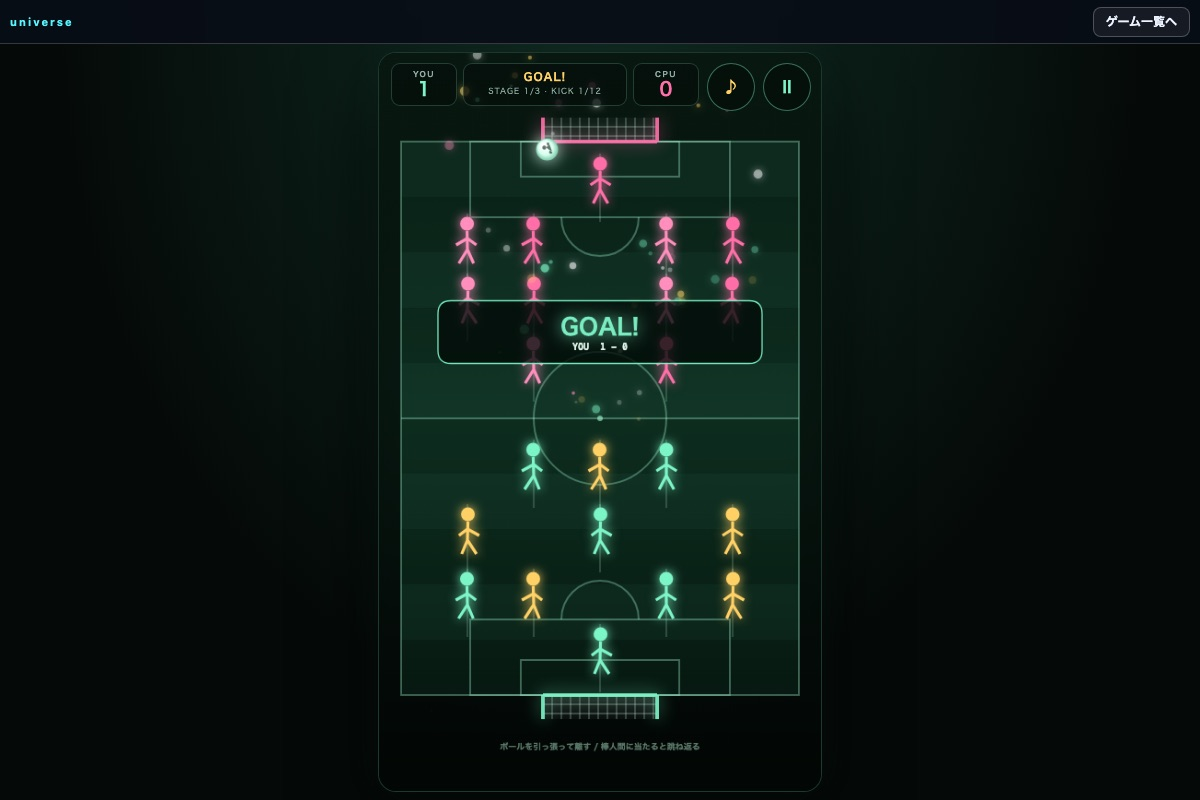
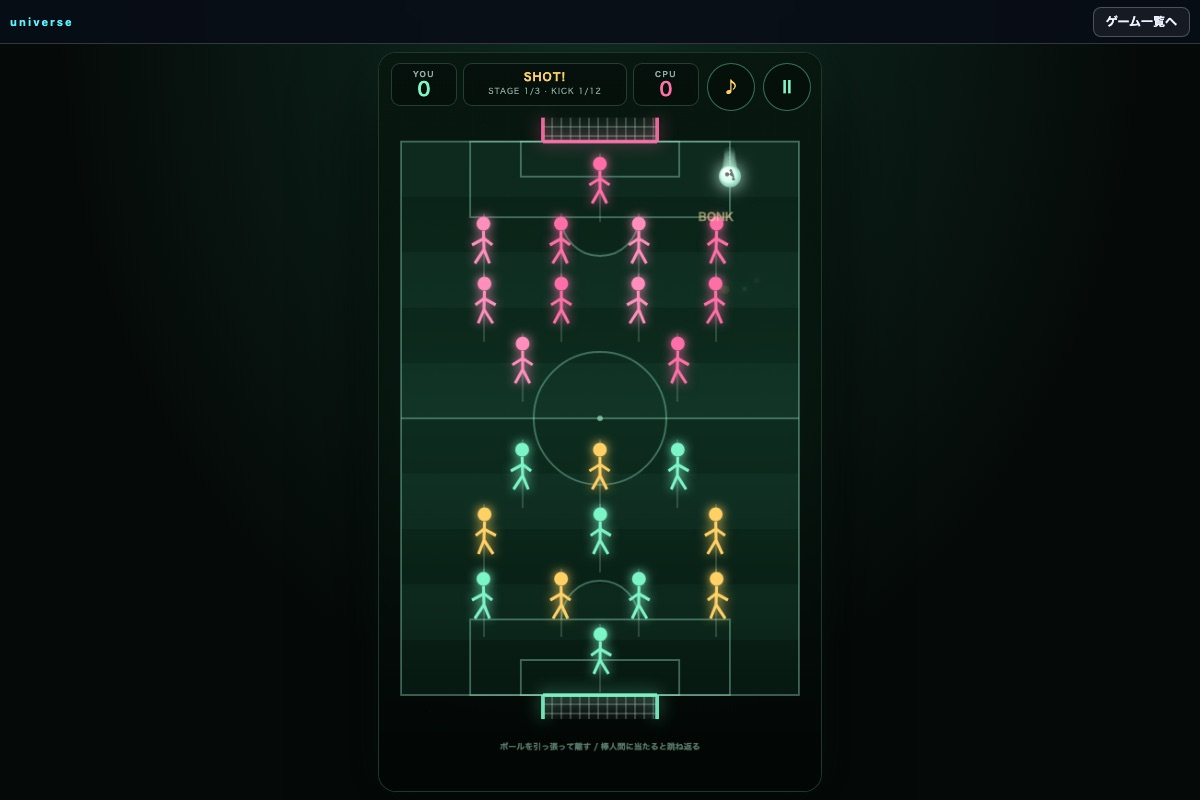
stick-soccer: フォーメーションを9スロットに細分化し左右隣接を禁止 (#212)
各ラインを5→9スロットに増やし、同一ラインで隣り合うスロットへの配置をUI/エンジンの両方で拒否。CPUの3ステージも左右に連立しない配置へ更新し、壁でボールが通らなくなるのを防ぐ。テスト・README・apps.json・サムネイルも更新。

diff --git a/projects/_labs/stick-soccer/engine.js b/projects/_labs/stick-soccer/engine.js
@@ -34,17 +34,17 @@
     { id: 'mf', label: 'MF', y: 275 },
     { id: 'fw', label: 'FW', y: 340 }
   ];
-  var FORMATION_SLOTS = [96, 168, 240, 312, 384];
+  var FORMATION_SLOTS = [72, 114, 156, 198, 240, 282, 324, 366, 408];
   var PLAYER_R = 16;
   var DEFAULT_FORMATION = [
-    { line: 0, slot: 1 }, { line: 0, slot: 2 }, { line: 0, slot: 3 },
-    { line: 1, slot: 0 }, { line: 1, slot: 2 }, { line: 1, slot: 4 },
-    { line: 2, slot: 0 }, { line: 2, slot: 1 }, { line: 2, slot: 3 }, { line: 2, slot: 4 },
-    { line: 3, slot: 2 }
+    { line: 0, slot: 2 }, { line: 0, slot: 4 }, { line: 0, slot: 6 },
+    { line: 1, slot: 1 }, { line: 1, slot: 4 }, { line: 1, slot: 7 },
+    { line: 2, slot: 1 }, { line: 2, slot: 3 }, { line: 2, slot: 5 }, { line: 2, slot: 7 },
+    { line: 3, slot: 4 }
   ];
 
   function cpuFormation(gk, df, mf, fw) {
-    var out = [{ line: 0, slot: 2 }];
+    var out = [{ line: 0, slot: gk }];
     var i;
     for (i = 0; i < df.length; i++) out.push({ line: 1, slot: df[i] });
     for (i = 0; i < mf.length; i++) out.push({ line: 2, slot: mf[i] });
@@ -53,10 +53,33 @@
   }
 
   var STAGES = [
-    { id: 'stage-1', name: '4-4-2', cpuFormation: cpuFormation(2, [0, 1, 3, 4], [0, 1, 3, 4], [1, 3]) },
-    { id: 'stage-2', name: '3-5-2', cpuFormation: cpuFormation(2, [0, 2, 4], [0, 1, 2, 3, 4], [1, 3]) },
-    { id: 'stage-3', name: '4-3-3', cpuFormation: cpuFormation(2, [0, 1, 3, 4], [1, 2, 3], [0, 2, 4]) }
+    { id: 'stage-1', name: '4-4-2', cpuFormation: cpuFormation(4, [1, 3, 5, 7], [1, 3, 5, 7], [2, 6]) },
+    { id: 'stage-2', name: '3-5-2', cpuFormation: cpuFormation(4, [1, 4, 7], [0, 2, 4, 6, 8], [2, 6]) },
+    { id: 'stage-3', name: '4-3-3', cpuFormation: cpuFormation(4, [1, 3, 5, 7], [1, 4, 7], [0, 4, 8]) }
   ];
+
+  function isValidFormation(formation) {
+    if (!formation || !formation.length) return true;
+    var seen = {};
+    var byLine = {};
+    for (var i = 0; i < formation.length; i++) {
+      var p = formation[i];
+      if (!p || !PLAYER_LINES[p.line] || FORMATION_SLOTS[p.slot] == null) return false;
+      var key = p.line + ':' + p.slot;
+      if (seen[key]) return false;
+      seen[key] = true;
+      if (!byLine[p.line]) byLine[p.line] = [];
+      byLine[p.line].push(p.slot);
+    }
+    for (var line in byLine) {
+      if (!Object.prototype.hasOwnProperty.call(byLine, line)) continue;
+      var slots = byLine[line].slice().sort(function (a, b) { return a - b; });
+      for (var j = 1; j < slots.length; j++) {
+        if (slots[j] - slots[j - 1] === 1) return false;
+      }
+    }
+    return true;
+  }
 
   function obstaclesFor(formation, team) {
     var f = formation && formation.length ? formation : DEFAULT_FORMATION;
@@ -95,6 +118,7 @@
     options = options || {};
     var stage = clamp(Number(options.stage) || 0, 0, STAGES.length - 1);
     var playerFormation = options.formation || DEFAULT_FORMATION;
+    if (!isValidFormation(playerFormation)) playerFormation = DEFAULT_FORMATION;
     var cpuFormation = STAGES[stage].cpuFormation;
     var s = {
       phase: 'aim',
@@ -424,6 +448,7 @@
     PLAYER_R: PLAYER_R,
     DEFAULT_FORMATION: DEFAULT_FORMATION,
     obstaclesFor: obstaclesFor,
+    isValidFormation: isValidFormation,
     TURNS: TURNS,
     WIN_SCORE: WIN_SCORE,
     createGame: createGame,

diff --git a/projects/_labs/stick-soccer/game.js b/projects/_labs/stick-soccer/game.js
@@ -524,6 +524,25 @@
     return best;
   }
 
+  function candidateFormation(index, line, slot) {
+    var next = copyFormation(formation);
+    var old = next[index];
+    var occupant = -1;
+    for (var i = 0; i < next.length; i++) {
+      if (i !== index && next[i].line === line && next[i].slot === slot) {
+        occupant = i;
+        break;
+      }
+    }
+    next[index] = { line: line, slot: slot };
+    if (occupant >= 0) next[occupant] = { line: old.line, slot: old.slot };
+    return next;
+  }
+
+  function canDropFormation(index, line, slot) {
+    return E.isValidFormation(candidateFormation(index, line, slot));
+  }
+
   function drawFormation(time) {
     for (var line = 0; line < E.FORMATION_LINES.length; line++) {
       var y = E.FORMATION_LINES[line].y;
@@ -580,12 +599,23 @@
     }
     var target = formationDrag ? nearestFormationSlot(formationDrag.x, formationDrag.y) : null;
     if (target && target.d < 58) {
+      var valid = canDropFormation(formationDrag.index, target.line, target.slot);
       ctx.save();
-      ctx.strokeStyle = 'rgba(255, 209, 102, 0.9)';
+      ctx.strokeStyle = valid ? 'rgba(255, 209, 102, 0.9)' : 'rgba(255, 111, 159, 0.95)';
       ctx.lineWidth = 2;
       ctx.beginPath();
       ctx.arc(target.x, target.y, E.PLAYER_R + 9, 0, Math.PI * 2);
       ctx.stroke();
+      if (!valid) {
+        ctx.strokeStyle = 'rgba(255, 111, 159, 0.95)';
+        ctx.lineWidth = 3;
+        ctx.beginPath();
+        ctx.moveTo(target.x - 7, target.y - 7);
+        ctx.lineTo(target.x + 7, target.y + 7);
+        ctx.moveTo(target.x + 7, target.y - 7);
+        ctx.lineTo(target.x - 7, target.y + 7);
+        ctx.stroke();
+      }
       ctx.restore();
     }
     for (var i = 0; i < formation.length; i++) {
@@ -619,7 +649,7 @@
     ctx.fillText('FORMATION  STAGE ' + (stageIndex + 1) + '/' + E.STAGES.length, C.VIEW_W / 2, 62);
     ctx.fillStyle = 'rgba(145, 190, 168, 0.78)';
     ctx.font = '700 9px "Hiragino Kaku Gothic ProN", "Yu Gothic", system-ui, sans-serif';
-    ctx.fillText('自分11人を下側4ラインへ。上側はCPUの形', C.VIEW_W / 2, 82);
+    ctx.fillText('自分11人を下側4ラインへ。左右の隣には置けません', C.VIEW_W / 2, 82);
     ctx.restore();
   }
 
@@ -807,16 +837,9 @@
       try { if (canvas.releasePointerCapture) canvas.releasePointerCapture(fid); } catch (err) { }
       var target = nearestFormationSlot(drag.x, drag.y);
       if (!target || target.d > 58) return;
-      var old = formation[drag.index];
-      var occupant = -1;
-      for (var i = 0; i < formation.length; i++) {
-        if (i !== drag.index && formation[i].line === target.line && formation[i].slot === target.slot) {
-          occupant = i;
-          break;
-        }
-      }
-      formation[drag.index] = { line: target.line, slot: target.slot };
-      if (occupant >= 0) formation[occupant] = { line: old.line, slot: old.slot };
+      var nextFormation = candidateFormation(drag.index, target.line, target.slot);
+      if (!E.isValidFormation(nextFormation)) return;
+      formation = nextFormation;
       return;
     }
     if (!pointer) return;

diff --git a/projects/_labs/stick-soccer/test-engine.js b/projects/_labs/stick-soccer/test-engine.js
@@ -13,8 +13,22 @@ assert(E.FIELD.w > 300 && E.FIELD.h > 500, 'field size is wrong');
 assert(E.OBSTACLES.length === 22, '22 stick obstacles expected: ' + E.OBSTACLES.length);
 assert(E.DEFAULT_FORMATION.length === 11, 'default formation should have 11 players');
 assert(E.FORMATION_LINES.length === 4 && E.CPU_LINES.length === 4, 'both teams should have 4 lines');
+assert(E.FORMATION_SLOTS.length === 9, 'nine formation slots per line expected');
+assert(E.isValidFormation(E.DEFAULT_FORMATION), 'default formation should be legal');
 assert(E.STAGES.length === 3, 'three stages expected');
 assert(E.STAGES[0].cpuFormation.length === 11 && E.STAGES[1].cpuFormation.length === 11 && E.STAGES[2].cpuFormation.length === 11, 'each CPU formation should have 11 players');
+for (var stageFormation = 0; stageFormation < E.STAGES.length; stageFormation++) {
+  assert(E.isValidFormation(E.STAGES[stageFormation].cpuFormation), 'CPU stage formation should not have adjacent players');
+}
+assert(E.isValidFormation([{ line: 0, slot: 0 }, { line: 0, slot: 2 }]), 'two-slot spacing should be legal');
+assert(!E.isValidFormation([{ line: 0, slot: 0 }, { line: 0, slot: 1 }]), 'adjacent players in one line should be illegal');
+assert(E.isValidFormation([{ line: 0, slot: 0 }, { line: 1, slot: 1 }]), 'adjacent slots in different lines should be legal');
+assert(!E.isValidFormation([{ line: 0, slot: 0 }, { line: 0, slot: 0 }]), 'duplicate formation positions should be illegal');
+assert(!E.isValidFormation([{ line: 9, slot: 0 }]), 'invalid line should be illegal');
+
+var invalid = E.createGame({ formation: [{ line: 0, slot: 0 }, { line: 0, slot: 1 }] });
+assert(invalid.obstacles.length === 22, 'invalid formation should fall back to the default');
+assert(invalid.obstacles.filter(function (p) { return p.team === 'player'; }).length === 11, 'fallback should restore 11 players');
 assert(E.TURNS === 12 && E.WIN_SCORE === 3, 'turn or win limit is wrong');
 
 var custom = E.createGame({ formation: [{ line: 0, slot: 2 }, { line: 2, slot: 0 }] });

diff --git a/projects/_labs/stick-soccer/index.html b/projects/_labs/stick-soccer/index.html
@@ -37,6 +37,7 @@
             <li>ピッチ上の棒人間に当たるとボールが跳ね返る</li>
             <li>自分とCPUの11人ずつ、計22人がピッチに並ぶ。CPUと交互にキック</li>
             <li>試合前に自分の11人を下側4本のラインへ配置（フォーメーション）</li>
+            <li>同じラインの左右隣には置けない。9スロットから選ぶ</li>
             <li>CPUの形は3ステージで変化。勝つと次のステージへ</li>
             <li>12キックで決着がつかなければ得点勝負</li>
             <li>先に3点取った方が勝ち。ゴール後は失点側のキックで再開</li>
@@ -86,8 +87,8 @@
     </div>
   </main>
   <script src="audio.js?v=1"></script>
-  <script src="engine.js?v=4"></script>
-  <script src="game.js?v=5"></script>
+  <script src="engine.js?v=5"></script>
+  <script src="game.js?v=6"></script>
   <script src="../../_shared/game-back.js"></script>
 </body>
 </html>

diff --git a/projects/_labs/stick-soccer/README.md b/projects/_labs/stick-soccer/README.md
@@ -13,6 +13,7 @@ python3 -m http.server 8000
 ## ルール
 
 - 試合前に**自分の11人を下側4本のライン（FW/MF/DF/GK）へ配置**。自由配置ではなく、スロットへスナップする
+- 各ラインは**9スロット**。同じラインの左右に隣接するスロットには置けない（壁を作れない）
 - CPUも11人。相手フォーメーションは**STAGE 1: 4-4-2 / STAGE 2: 3-5-2 / STAGE 3: 4-3-3**と変化する
 - ステージに勝つと次のステージへ。3ステージを突破するとENDING
 - 自分のターンに**ボールを引っ張って離す**とシュート。引いた方向と逆へ飛ぶ
@@ -28,7 +29,7 @@ python3 -m http.server 8000
 - ボールの近くをドラッグして離す: シュート
 - **P / Esc / 右上のポーズ**: 一時停止と再開
 - **M / 右上の♪**: スタジアムBGMの消音 / 再生
-- フォーメーション画面で選手をドラッグして4本のラインのスロットへ移動
+- フォーメーション画面で選手をドラッグして4本のライン×9スロットへ移動。左右の隣接スロットは赤い×で拒否される
 - **Space / Enter**: タイトル・リザルトで開始 / 再戦 / 次ステージへ
 - 画面外に出る、タブを隠す、ウィンドウをフォーカスから外すと自動でポーズ
 - ピンチズーム、ダブルタップズーム、長押しメニューを抑制
@@ -38,7 +39,7 @@ python3 -m http.server 8000
 - 縦向きの深緑ピッチ、ネオンのタッチライン、ペナルティエリア、センターサークル
 - 上はCPUのピンクゴール、下はプレイヤーのミントゴール
 - 22人の棒人間。CPUはピンク、自分はミント/ゴールド。当たると発光してボールが跳ね返る
-- フォーメーション画面では自分の4本のラインと20スロット、上側にCPUフォーメーションのゴーストを表示
+- フォーメーション画面では自分の4本のラインと36スロット、上側にCPUフォーメーションのゴーストを表示。左右に隣接した配置は不可
 - 4小節ループのスタジアム風BGM（ドラム、ベース、ブラス、観客ノイズ、ホイッスル）をWebAudioで生成
 - シュート時は引っ張り線、逆方向の矢印、パワー%、ボールの残像
 - ゴール時はフラッシュ、画面の揺れ、紙吹雪、スコアバナー
@@ -64,7 +65,7 @@ stick-soccer/
 - **スリングショット入力**: ドラッグベクトルの逆方向に速度を与える。長さは最大90、速度は最大990相当
 - **摩擦と停止**: 速度から毎秒430を減算し、18以下が0.22秒続いたらターン終了
 - **反射**: 壁は0.82、棒人間は0.88の反発係数。22人全員が円形の当たり判定
-- **フォーメーション**: 4本のライン×5スロット。選手はスロット間だけを移動でき、試合中は固定
+- **フォーメーション**: 4本のライン×9スロット。選手はスロット間だけを移動でき、試合中は固定。同一ラインの隣接スロットを禁止して、棒人間の壁でボールが通らなくなるのを防ぐ
 - **ゴール判定**: 上下のゴールマウス内でゴールラインを越えたら得点。ポスト外は壁として反射
 - **CPU**: ゴール方向の複数ターゲット×4パワーを軌道シミュレーションし、得点・前進・ゴール接近度で選択。少しだけ角度とパワーに揺らぎを入れる
 - **自動プレイ**: `window.__GAME__.autoPlayStep` はプレイヤー側もAIでシュートし、CPUと交互に進める
@@ -89,12 +90,12 @@ jsc test-engine.js
 jsc test-smoke.js
 ```
 
-`test-engine.js` はドラッグから速度への変換、壁と22人の棒人間の反射、カスタムフォーメーション、3ステージのCPUフォーメーション、ゴール、ターン切替、3点先取、12キック終了、CPUの軌道選択を検証します。`test-audio.js` はBGMの生成・消音・停止を検証します。`test-smoke.js` は `window.__GAME__` を自動プレイし、HUDとリザルト/ステージ画面まで確認します。
+`test-engine.js` はドラッグから速度への変換、壁と22人の棒人間の反射、9スロットのフォーメーション、左右隣接の禁止、3ステージのCPUフォーメーション、ゴール、ターン切替、3点先取、12キック終了、CPUの軌道選択を検証します。`test-audio.js` はBGMの生成・消音・停止を検証します。`test-smoke.js` は `window.__GAME__` を自動プレイし、HUDとリザルト/ステージ画面まで確認します。
 
 ## 既知の制限
 
 - 2Dトップダウンの簡易物理。スピン・回転・芝の抵抗差はない
-- フォーメーションは4本のライン×5スロットに限定。自由な2D配置や試合中の移動はできない
+- フォーメーションは4本のライン×9スロットに限定。自由な2D配置や試合中の移動はできない。左右の隣接スロットは選べない
 - CPUは軌道シミュレーションによるヒューリスティックで、学習AIではない
 - BGMはブラウザのWebAudioで生成するため、環境によって音色が多少異なる
 - ステージは3面。オンライン対戦やランキングはない
